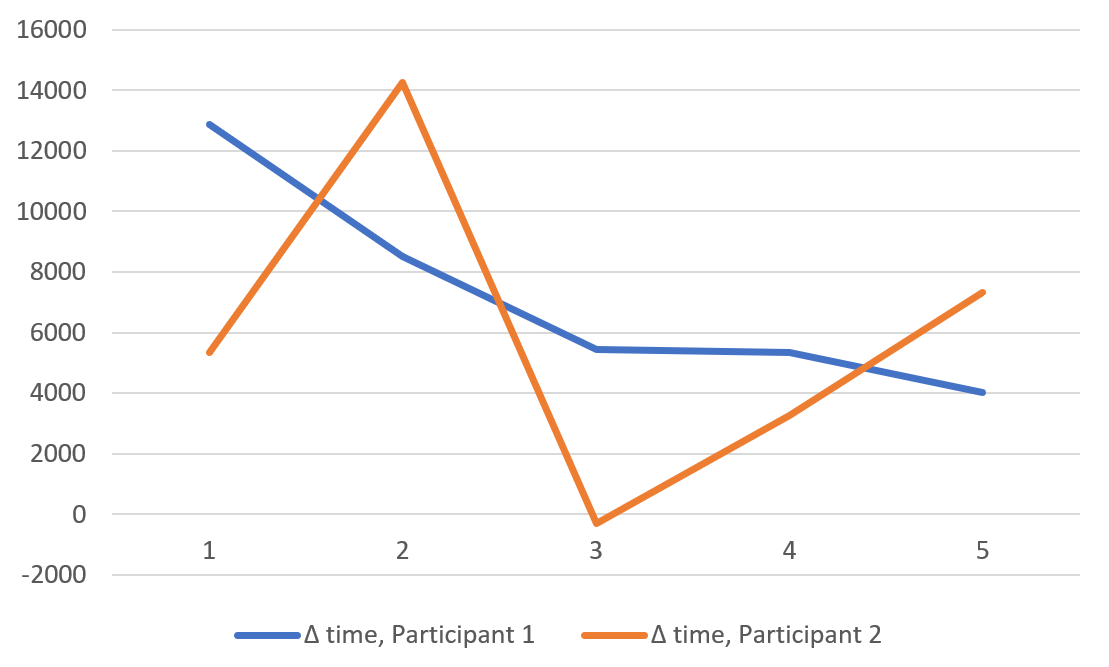
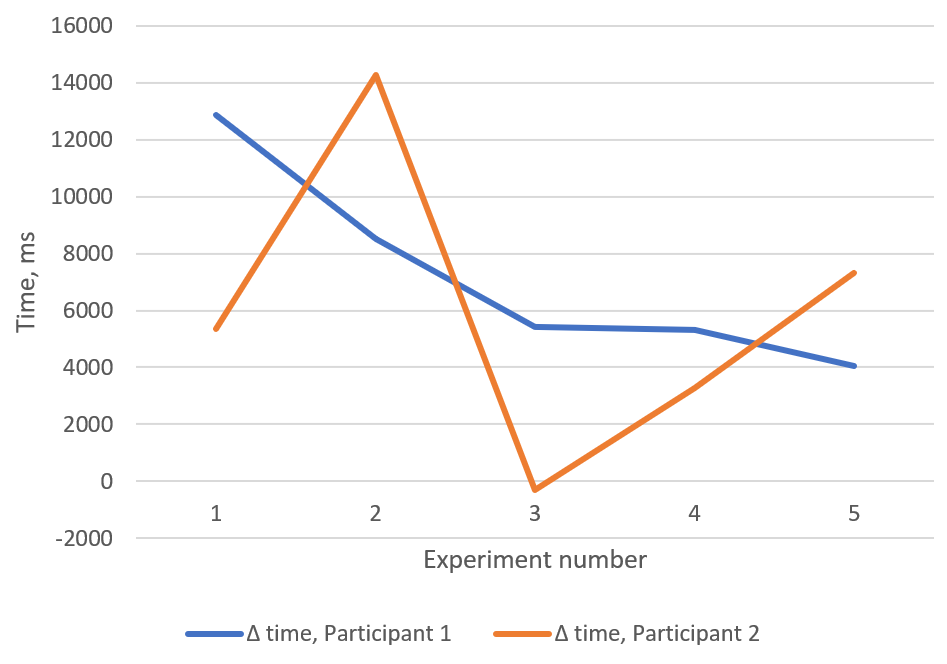
Updates from Overleaf

diff --git a/Real-virtual world connection interface for research in IoT environment/data/chap05.tex b/Real-virtual world connection interface for research in IoT environment/data/chap05.tex
@@ -1,6 +1,6 @@
 % !TeX root = ../thuthesis-example.tex
 
-\chapter{\MakeUppercase{Platform performance evaluation}}
+\chapter{\MakeUppercase{NUIX-Studio network and computational performance tests}}
 
 Evaluating how devices are created and how simultaneous work is performed in the IoT-VR environment is an important part of this research. This chapter describes several experiments used for testing the NUIX-Studio platform's performance.
 There are several devices in the example configuration (Figure~\ref{fig:TestingEquipment-figure}):
@@ -19,28 +19,13 @@ There are several devices in the example configuration (Figure~\ref{fig:TestingE
   \label{fig:TestingEquipment-figure}
 \end{figure}
 
-In the first experiment, gesture control functionality is added to the smart lamp\footnote{a Smart vacuum cleaner and a remote PC will be used in the next experiments} by creating Widgets for Light and Gesture Recognition in the virtual environment scene. In other words, the virtual lamp light is equivalent to the real-world one, and a gesture control interface is implemented.
+In the initial experiment, gesture control functionality is added to the smart lamp\footnote{a Smart vacuum cleaner and a remote PC will be used in the next experiments} by creating Tags for Light and Gesture Recognition Widgets in the virtual environment scene (Figure~\ref{fig:ItemEditPage-figure}). In other words, the virtual lamp light is equivalent to the real-world one, and a gesture control interface is implemented. To test the system functioning, a VR-IoT platform user performs three actions:
 
-\section{Server setup}
-As in the previous chapter, Things representing the Smart Lamp and Vacuum Cleaner are added to the server by using a suitable Binding (Figure~\ref{fig:ServerSetupProcedure-figure}).
-
-\begin{figure}
-  \centering
-  \includegraphics[width = 0.9 \linewidth]{figures/ServerSetupProcedure.png}
-  \caption{Server setup procedure.}
-  \label{fig:ServerSetupProcedure-figure}
-\end{figure}
-
-The next step is adding the Items linked to the Things' Channels. The lamp's brightness dimmer is added to the Semantic model. As seen in Figure~\ref{fig:SemanticModelOne-figure}, the user can move the dimmer to control the lamp light's brightness. The real-world lamp will change its brightness based on the value on the server.
-
-\begin{figure}
-  \centering
-  \includegraphics[width = 0.9 \linewidth]{figures/SemanticModelOne.png}
-  \caption{The Semantic model in the first experiment}
-  \label{fig:SemanticModelOne-figure}
-\end{figure}
-
-The next step is adding Item Tags for Gesture and Brightness control (Figure~\ref{fig:ItemEditPage-figure}). Tags provide information to the NUIX-Studio App about which Widgets it needs to create for the Item.
+\begin{enumerate}
+    \item Put on Virtual reality headset;
+    \item Press the virtual button to establish a Client-Server connection and receive the items list;
+    \item Perform a ``Thumbs up'' gesture. By rotating one's fist, the lamp brightness changes in the VR-IoT environment\footnote{In both the real and virtual worlds.} (Figure~\ref{fig:FullBrightnessOculus-figure}).
+\end{enumerate}
 
 \begin{figure}
   \centering
@@ -48,17 +33,6 @@ The next step is adding Item Tags for Gesture and Brightness control (Figure~\re
   \caption{Item Edit Page.}
   \label{fig:ItemEditPage-figure}
 \end{figure}
-
-The server has been set up to connect to NUIX-Studio App instances.
-
-\section{Running NUIX-Studio App}
-
-In the experiment, a VR-IoT platform user performs three actions:
-\begin{enumerate}
-    \item Put on Virtual reality headset;
-    \item Press the virtual button to establish a Client-Server connection and receive the items list;
-    \item Perform a ``Thumbs up'' gesture. By rotating one's fist, the lamp brightness changes in the VR-IoT environment\footnote{In both the real and virtual worlds} (Figure~\ref{fig:FullBrightnessOculus-figure}).
-\end{enumerate}
 
 
 \begin{figure}
@@ -80,13 +54,11 @@ The user of the platform performed these actions\footnote{In this experiment, th
   \label{fig:BrightnessControl-figure}
 \end{figure}
 
-\section{Performance analysis}
+\section{Testing complex computations and simultaneous work scenarios}
 
-The analysis of platform performance is not the study's primary goal, but it helps with finding bottlenecks. 
+The analysis of platform performance is not the study's primary goal, but it helps with finding bottlenecks. The following experiment shows that it is viable to perform rendering tasks on a separate server. Having a common database for all instances of the application will help several users to work simultaneously within the system.
 
-The following experiment shows that it is viable to perform rendering tasks on a separate server. Having a common database for all instances of the application will help several users to work simultaneously within the system.
-
-The first experiment is a system startup analysis, performed on three devices by registering the startup time (Figure~\ref{fig:SystemStartupScheme-figure}).
+The first experiment is a system startup analysis, performed on three devices by registering the startup time (Figure~\ref{fig:SystemStartupScheme-figure}). The hardware specifications are listed in Table~\ref{tab:hardware-specifications-table} \footnote{A Localhost PC is a notebook running the openHAB server as well as one instance of NUIX-Studio App; A Remote PC is a computer running one instance of the NUIX-Studio App and connected to the same Wi-Fi network as the localhost PC; Oculus Quest is a Virtual Reality Headset running the NUIX-Studio APP and connected to the same Wi-Fi network as the PCs.}.
 
 \begin{figure}
   \centering
@@ -94,8 +66,6 @@ The first experiment is a system startup analysis, performed on three devices by
   \caption{System startup scheme.}
   \label{fig:SystemStartupScheme-figure}
 \end{figure}
-
-The hardware specifications are listed in Table~\ref{tab:hardware-specifications-table} \footnote{A Localhost PC is a notebook running the openHAB server as well as one instance of NUIX-Studio App; A Remote PC is a computer running one instance of the NUIX-Studio App and connected to the same Wi-Fi network as the localhost PC; Oculus Quest is a Virtual Reality Headset running the NUIX-Studio APP and connected to the same Wi-Fi network as the PCs.}.
 
 \begin{table}
   \centering
@@ -114,7 +84,7 @@ The hardware specifications are listed in Table~\ref{tab:hardware-specifications
   \end{threeparttable}
 \end{table}
 
-Each test was performed on a new Unity App instance to avoid caching influence. Then, mean values for the tests were calculated (Figure~\ref{fig:SystemInitTime-figure}).
+Each test was performed on a new Unity App instance to avoid caching influence. Then, mean values for the tests were calculated. As seen in Figure~\ref{fig:SystemInitTime-figure}, the system initialization is a time-consuming operation, on average taking from 200ms to over 600ms to perform.
 
 \begin{figure}
   \centering
@@ -122,8 +92,6 @@ Each test was performed on a new Unity App instance to avoid caching influence. 
   \caption{System initialization time measured on different client devices, in ms}
   \label{fig:SystemInitTime-figure}
 \end{figure}
-
-As seen in Figure~\ref{fig:SystemInitTime-figure}, the system initialization is a time-consuming operation, on average taking from 200ms to over 600ms to perform.
 
 In the next experiment, the event processing time was measured. On one of the devices running the NUIX-Studio App instance, a user changed an Item value \footnote{In this case, the brightness of the smart bulb was changed by moving the corresponding pinch slider widget}. The server processed the received request to change the Item parameter, and then an Event containing information about the new Item value was sent to all devices connected to the server. The device on which this Item change occurred ignored the new incoming value because it was equal to the old value. Next, the processing time of a request on another device was measured (Figure~\ref{fig:EventProcessingScheme-figure}).
 
@@ -139,15 +107,15 @@ As seen on the resulting histogram (Figure~\ref{fig:EventProcessingTime-figure})
 \begin{figure}
   \centering
   \includegraphics[width = 0.9 \linewidth]{figures/EventProcessingTime.png}
-  \caption{Event processing time measured on different devices, in \textmu{}s}
+  \caption{Event Processing time measured on different devices, in \textmu{}s}
   \label{fig:EventProcessingTime-figure}
 \end{figure}
 
 The results of this experiment will be used in the future. System initialization time is based on the device hardware performance. In some later experiments, it is better not to include system initialization in time calculations. Event processing time is relatively low for each device, and can be ignored in most cases.
 
-The following experiment uses a Virtual reality headset, a smart light bulb, and a server running an application on it. For instance, a light sensor is used inside a Smart home environment, located at a relatively large distance from the lamp (2-3 meters), and is triggered when the amount of light falling on its sensor exceeds a certain threshold. For example, this setup is used in industry to provide a comfortable lighting level while maintaining an optimal amount of energy consumption. The light sensor is triggered precisely at a sufficiently large value of the lamp brightness. Hence, the sensor must adjust to the brightness level of the light bulb very accurately.
+The following experiment uses a Virtual reality headset, a smart light bulb, and a server running an application on it. For instance, a light sensor is used inside a Smart home environment, located at a relatively large distance from the lamp (2-3 meters), and is triggered when the amount of light falling on its sensor exceeds a certain threshold. For example, this setup can be used in industry to provide a comfortable lighting level while maintaining an optimal amount of energy consumption. The light sensor is triggered precisely at a sufficiently large value of the lamp brightness. Hence, the sensor must adjust to the brightness level of the light bulb very accurately.
 
-The previous experiment showed that gesture control could be used to adjust a lamp's brightness level. This experiment shows that the transfer of computations from the Virtual reality headset to the server is necessary for specific scenarios. The user is asked to perform the same steps as in the previous experiment, with one more step added:  setting the brightness to the specified level. Supposing that the light sensor is triggered at a lamp light brightness level of 50 out of 100 \footnote{Using Fitts' law, it can be assumed that setting up brightness levels to different values takes different amounts of time. However, this effect is considered not significant for the experiment.}. The user's task is to set the light brightness to the specified value as quickly as possible using gesture control. In order to omit additional operations not related to the direct use of gestures (such as starting the system), the user had to repeat the step by setting the brightness of the light to the specified value twice. The interval between the first and second times, when the lamp brightness is equal to the specified value, can be divided into two components (Equation \eqref{eq:totaltime}): the user reaction time to a successful change in the brightness level $ t_{react} $, and the execution time of the new calibrations $ t_{cal} $.
+The previous experiment showed that gesture control could be used to adjust a lamp's brightness level. This experiment shows that the transfer of computations from the Virtual reality headset to the server is necessary for specific scenarios. The user is asked to perform the same steps as in the previous experiment, with one more step added:  setting the brightness to the specified level. In this experiment the light sensor is triggered at a lamp light brightness level of 50 out of 100 \footnote{Using Fitts' law, it can be assumed that setting up brightness levels to different values takes different amounts of time. However, this effect is considered not significant for the experiment.}. The user's task is to set the light brightness to the specified value as quickly as possible using gesture control. In order to omit additional operations not related to the direct use of gestures (such as starting the system), the user had to repeat the step by setting the brightness of the light to the specified value twice. The interval between the first and second times, when the lamp brightness is equal to the specified value, can be divided into two components (Equation \eqref{eq:totaltime}): the user reaction time to a successful change in the brightness level $ t_{react} $, and the execution time of the new calibrations $ t_{cal} $.
 
 
 \begin{equation}
@@ -238,6 +206,6 @@ In the next experiment, the author demonstrated that it is possible to work toge
     \item Time interval from changing an Item on the remote PC to updating the widgets on localhost PC did not exceed 60ms.
 \end{enumerate}
 
-Thus, the speed of the network plays a significant role in the operation of the system. The minimal network latency available now can be significantly reduced in future Wi-Fi 6 networks and 6G networks, significantly improving the simultaneous work inside the same VR-IoT environment. However, it has been observed that operations such as adding new devices to the system will remain time-consuming. Since there is a request to create game objects for each of the Item's widgets, the author assumes that the main delay is associated precisely with the internal processes inside the Unity 3D engine. The delays connected to hand recognition will continue to decrease, since every new generation of Virtual Reality headsets has a higher refresh rate screens compared to the previous ones. 
+Thus, the speed of the network plays a significant role in the operation of the system. The minimal network latency available now can be significantly reduced in future Wi-Fi 6 networks and 6G networks, significantly improving the simultaneous work inside the same VR-IoT environment. However, it has been observed that operations such as adding new devices to the system will remain time-consuming. Since there is a request to create Unity Game Objects for each of the Item's widgets, the author assumes that the main delay is associated precisely with the internal processes inside the Unity 3D engine. The delays connected to hand recognition will continue to decrease, since every new generation of Virtual Reality headsets has a higher refresh rate screens compared to the previous ones. 
 
 The NUIX-Studio App application is provided in the next chapter. Several hypothesis connected to research in AIoT-VR have been tested with help of the VR-IoT platform. 

diff --git a/Real-virtual world connection interface for research in IoT environment/data/chap03.tex b/Real-virtual world connection interface for research in IoT environment/data/chap03.tex
@@ -2,7 +2,7 @@
 
 \chapter{\MakeUppercase{The VR-IoT Research Platform}}
 
-In this chapter, we introduce key implementation details and the structure of the VR-IoT research platform, or, as it was later named, ``NUIX-Studio.'' Firstly, we will give the requirements for the platform architecture, then we will outline the key details in its development.
+In this chapter, we introduce key implementation details and the structure of the VR-IoT research platform, or, as it was later named, ``NUIX-Studio.'' Firstly, we give the requirements for the platform architecture, then we outline the key details in its development.
 
 \section{Platform requirements}
 
@@ -12,7 +12,7 @@ However, in addition to handling interactions with devices, our platform must al
 \begin{enumerate}
 \item Scalability. The performance of the platform should stay acceptable when the number of devices in the system increases. Otherwise, the latency of the synchronization between the devices inside the VR-IoT environment will increase to a level at which the system is unable to perform Data analysis for the research;
 \item Ease of use and testing. Researchers need to be able to efficiently use the NUIX-Studio API and platform tools to create new IoT devices and test them in the VR-IoT environment.
-\item Fault Tolerance. The platform should effectively handle faults coming from both real and virtual worlds to provide a satisfying user experience;
+\item Fault Tolerance. The platform should effectively handle faults to provide a satisfying user experience;
 \item Simultaneous work. As in the real world, where several people can interact with an IoT system at the same time, each of the platform's running instances should be able to operate simultaneously and with the same data.
 \end{enumerate}
 
@@ -97,7 +97,7 @@ Server data is synchronized with Integration layer through REST API (Figure~\ref
   \end{threeparttable}
 \end{table}
 
-States of the Items are received by getting events from the server: once the event is received, the Item state can be retrieved from the Data Transfer Object's (DTO) payload. Only updated data is transferred between Real-world devices HUB and Integration layer. 
+States of the Items are received by getting events from the server: once the event is received, the Item state can be retrieved from the Data Transfer Object's (DTO) payload. Only updated data is transferred between Real-world devices HUB and Integration layer. Data sent during synchronization is stored in a distributed Database.
 
 
 \section{Platform architecture}
@@ -130,7 +130,7 @@ After the NUIX-Studio App requests access to the system to get the list of items
   \label{fig:AppArchitecture-figure}
 \end{figure}
 
-But if the states of the Items are only stored in the App, users will not be allowed to interact with the IoT devices. In other words, the NUIX-Studio App has to provide an interface to interact with the Items. Since different types of Items require different interaction techniques, a Widget object is created for each item type. Widget in NUIX-Studio App is a Unity Virtual object, which can visualize the Item state and update it. For example, it can be an interactable pinch slider for a dimmer Item or a virtual screen for an Image item. By integrating Extra frameworks, the NUIX-Studio platform can provide a wider variety of Widgets and a higher number of supported devices. For example, Oculus Integration support provides an API for hand recognition, SteamVR~\cite{SteamVR2021} support makes it possible to run the NUIX-Studio App on the majority of VR headsets, and Mixed Reality Toolkit~(\cite{MRTK2021}) provides a set of UX components and features.
+But if the states of the Items are only stored in the App, users will not be allowed to interact with the IoT devices. In other words, the NUIX-Studio App has to provide an interface to interact with the Items. Since different types of Items require different interaction techniques, a Widget object is created for each item type. Widget in NUIX-Studio App is a Unity Virtual object, which can visualize the Item state and update it. For example, it can be an interactable pinch slider for a dimmer Item or a virtual screen for an Image item. By integrating Extra frameworks, the NUIX-Studio platform can provide a wider variety of Widgets and a higher number of supported devices. For example, Oculus Integration support provides an API for hand recognition, SteamVR~\cite{SteamVR2021} support makes it possible to run the NUIX-Studio App on the majority of VR headsets, and Mixed Reality Toolkit~cite{MRTK2021} provides a set of UX components and features.
 
 \subsection{NUIX-Studio App Semantic Model}
 

diff --git a/Real-virtual world connection interface for research in IoT environment/data/abstract.tex b/Real-virtual world connection interface for research in IoT environment/data/abstract.tex
@@ -27,14 +27,14 @@
 
   In recent years processing power has become so cheap that making objects around us intelligent is no longer a challenge: using energy-efficient System-on-Chips or microcontrollers in clothes, furniture, toys, and other things helps to monitor our activity, store sensors' data, analyze it and share it to the Internet. Such smart things can interact with us using embedded microphones, speakers and information displays. The rapid development of 5G- and 6G-networks in the near future will make it possible to provide a fast and energy-efficient way to connect thousands of devices no longer attached to a single location. Higher data sharing between the devices and improved Big Data analysis will lead to further evolution of the Internet of Things. Developing new types of devices is an issue, since there is no standard software for their rapid integration into existing real-world scenarios.
    
-  In the meantime, Virtual Reality has recently seen rapid development, and with the newer technique of hands recognition, as well as the evolution of Virtual Reality Headsets, it has proven itself as a great instrument not only for gaming purposes but for healthcare, education, and science.
+  In the meantime, Virtual Reality has recently seen rapid development, and with the newer technique of hands recognition, as well as the evolution of Virtual Reality headsets, it has proven itself as a great instrument not only for gaming purposes but for healthcare, education, and science.
    
   The author proposes a synchronization mechanism that keeps real and virtual devices up-to-date, according to actions and events in the virtual world and applying actions from the real devices to the virtual world. This thesis asks if, with the help of Virtual Reality interaction devices, such a mechanism can be developed and used as a part of an instrument for research on new devices. The main contributions of this thesis include:
   
   \begin{enumerate}
       \item A novel hybrid virtuality-reality model for developing IoT devices and scenarios, which can significantly save development cost and improve efficiency. 
       \item A synchronization mechanism that binds the status of virtual devices and physical devices in real time, and supports inter-operations. 
-      \item A development kit, called NUIX-Studio, for researchers to fast prototype AIoT projects, with a rich set of reusable widgets and functionalities. The spatial and temporal synchronization is used to keep the sensor states equal in real and virtual worlds.
+      \item A development kit, called NUIX-Studio, for researchers to fast prototype AIoT projects, with a rich set of reusable widgets and functionalities.
   \end{enumerate}
   
   % Use comma as seperator when inputting

diff --git a/Real-virtual world connection interface for research in IoT environment/data/chap06.tex b/Real-virtual world connection interface for research in IoT environment/data/chap06.tex
@@ -1,6 +1,6 @@
 % !TeX root = ../thuthesis-example.tex
 
-\chapter{\MakeUppercase{Platform application}}
+\chapter{\MakeUppercase{Applying NUIX-Studio to HCI Course Projects}}
 
 The platform has already been used for research in a VR-IoT environment.
 For their course projects, students in the Autumn 2020 HCIT course were required to research an interaction method in a specific Smart environment simulated in Virtual reality. Each team was given an Oculus Quest 2 VR headset for testing their demos. At the time of the coursework development, students had access to the previous version of the NUIX-Studio platform based on the fourth prototype. As mentioned in chapter 6, this prototype could not convenient create devices, facilitate simultaneous work, or integrate most IoT devices from the real world. However, the platform provided tools for interaction with virtual IoT devices. Students integrated the platform into their projects, which were written in Unity, by adding Widgets such as Sight Sensor, gesture recognition, video streaming, and virtual controls. They also tested various hypotheses for interacting with devices in Virtual reality. As a result, the platform helped to achieve important results in students' course projects. 
